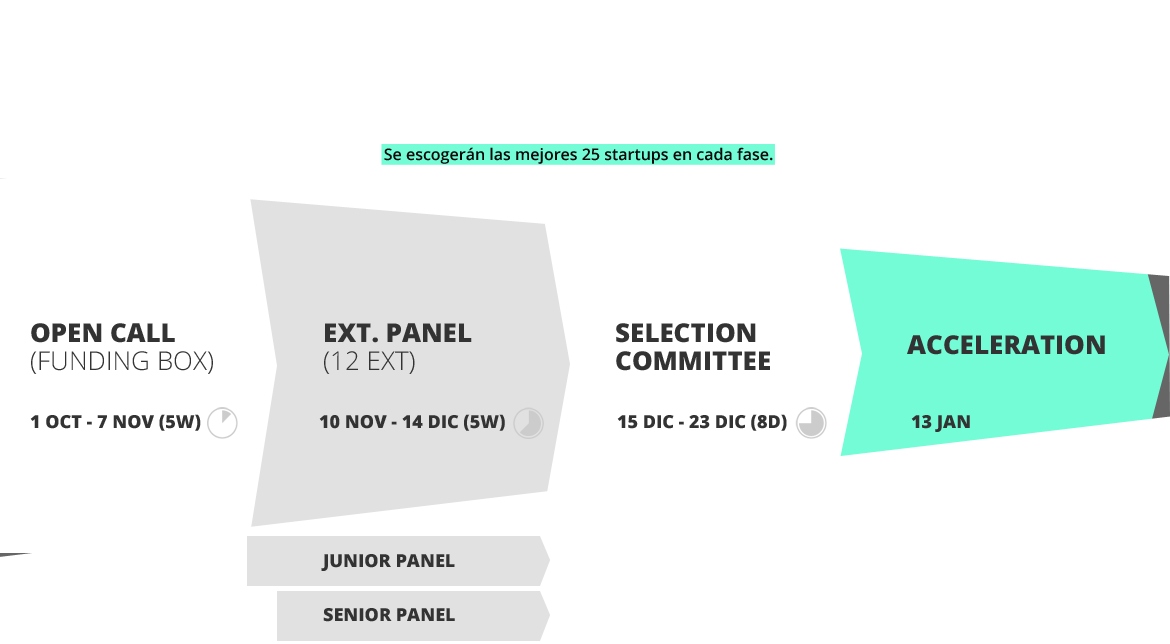
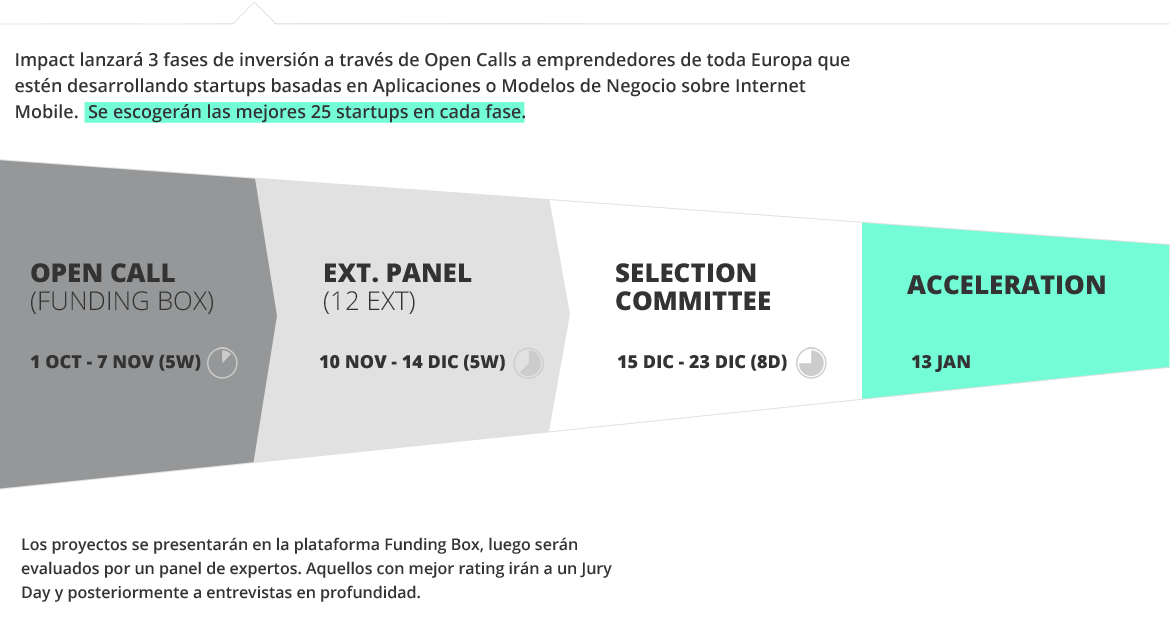
ajustamos las diapos blancas

Changed region(s): [[0.0, 0.0621, 0.7385, 1.0], [0.5231, 0.3416, 1.0, 0.7143], [0.2769, 0.4037, 0.4308, 0.5901]]

diff --git a/css/main.min.css b/css/main.min.css
@@ -9560,16 +9560,16 @@ h4,
   }
 }
 #how-it-works .tabs-circle-top .tab.active {
-  top: -5px;
+  top: 5px;
 }
 #how-it-works .tabs-circle-top .tab.active a {
-  height: 140px;
-  width: 140px;
-  max-width: 140px;
+  height: 130px;
+  width: 130px;
+  max-width: 130px;
   color: #404040;
 }
 #how-it-works .tabs-circle-top .tab {
-  height: 140px;
+  height: 130px;
 }
 #how-it-works .tabs-circle-top.tab-container .panel-container {
   margin-top: 0;

diff --git a/_less/main.less b/_less/main.less
@@ -307,16 +307,16 @@ h4, .h4 {
     }
   }
   .tabs-circle-top .tab.active {
-    top: -5px;
+    top: 5px;
   }
   .tabs-circle-top .tab.active a {
-    height: 140px;
-    width: 140px;
-    max-width: 140px;
+    height: 130px;
+    width: 130px;
+    max-width: 130px;
     color: #404040;
   }
   .tabs-circle-top .tab {
-    height: 140px;
+    height: 130px;
   }
   .tabs-circle-top.tab-container .panel-container {
     margin-top: 0;

diff --git a/_includes/04.how-it-works.html b/_includes/04.how-it-works.html
@@ -30,7 +30,7 @@
 
 						<div class="tab-content" id="tab-2">
 							<figure>
-								<img src="/img/diapos/diapositiva.11a.blanco.png" class="img-responsive" alt="Diapositiva">
+								<img src="/img/diapos/diapositiva.11.png" class="img-responsive" alt="Diapositiva">
 							</figure>
 						</div>
 
